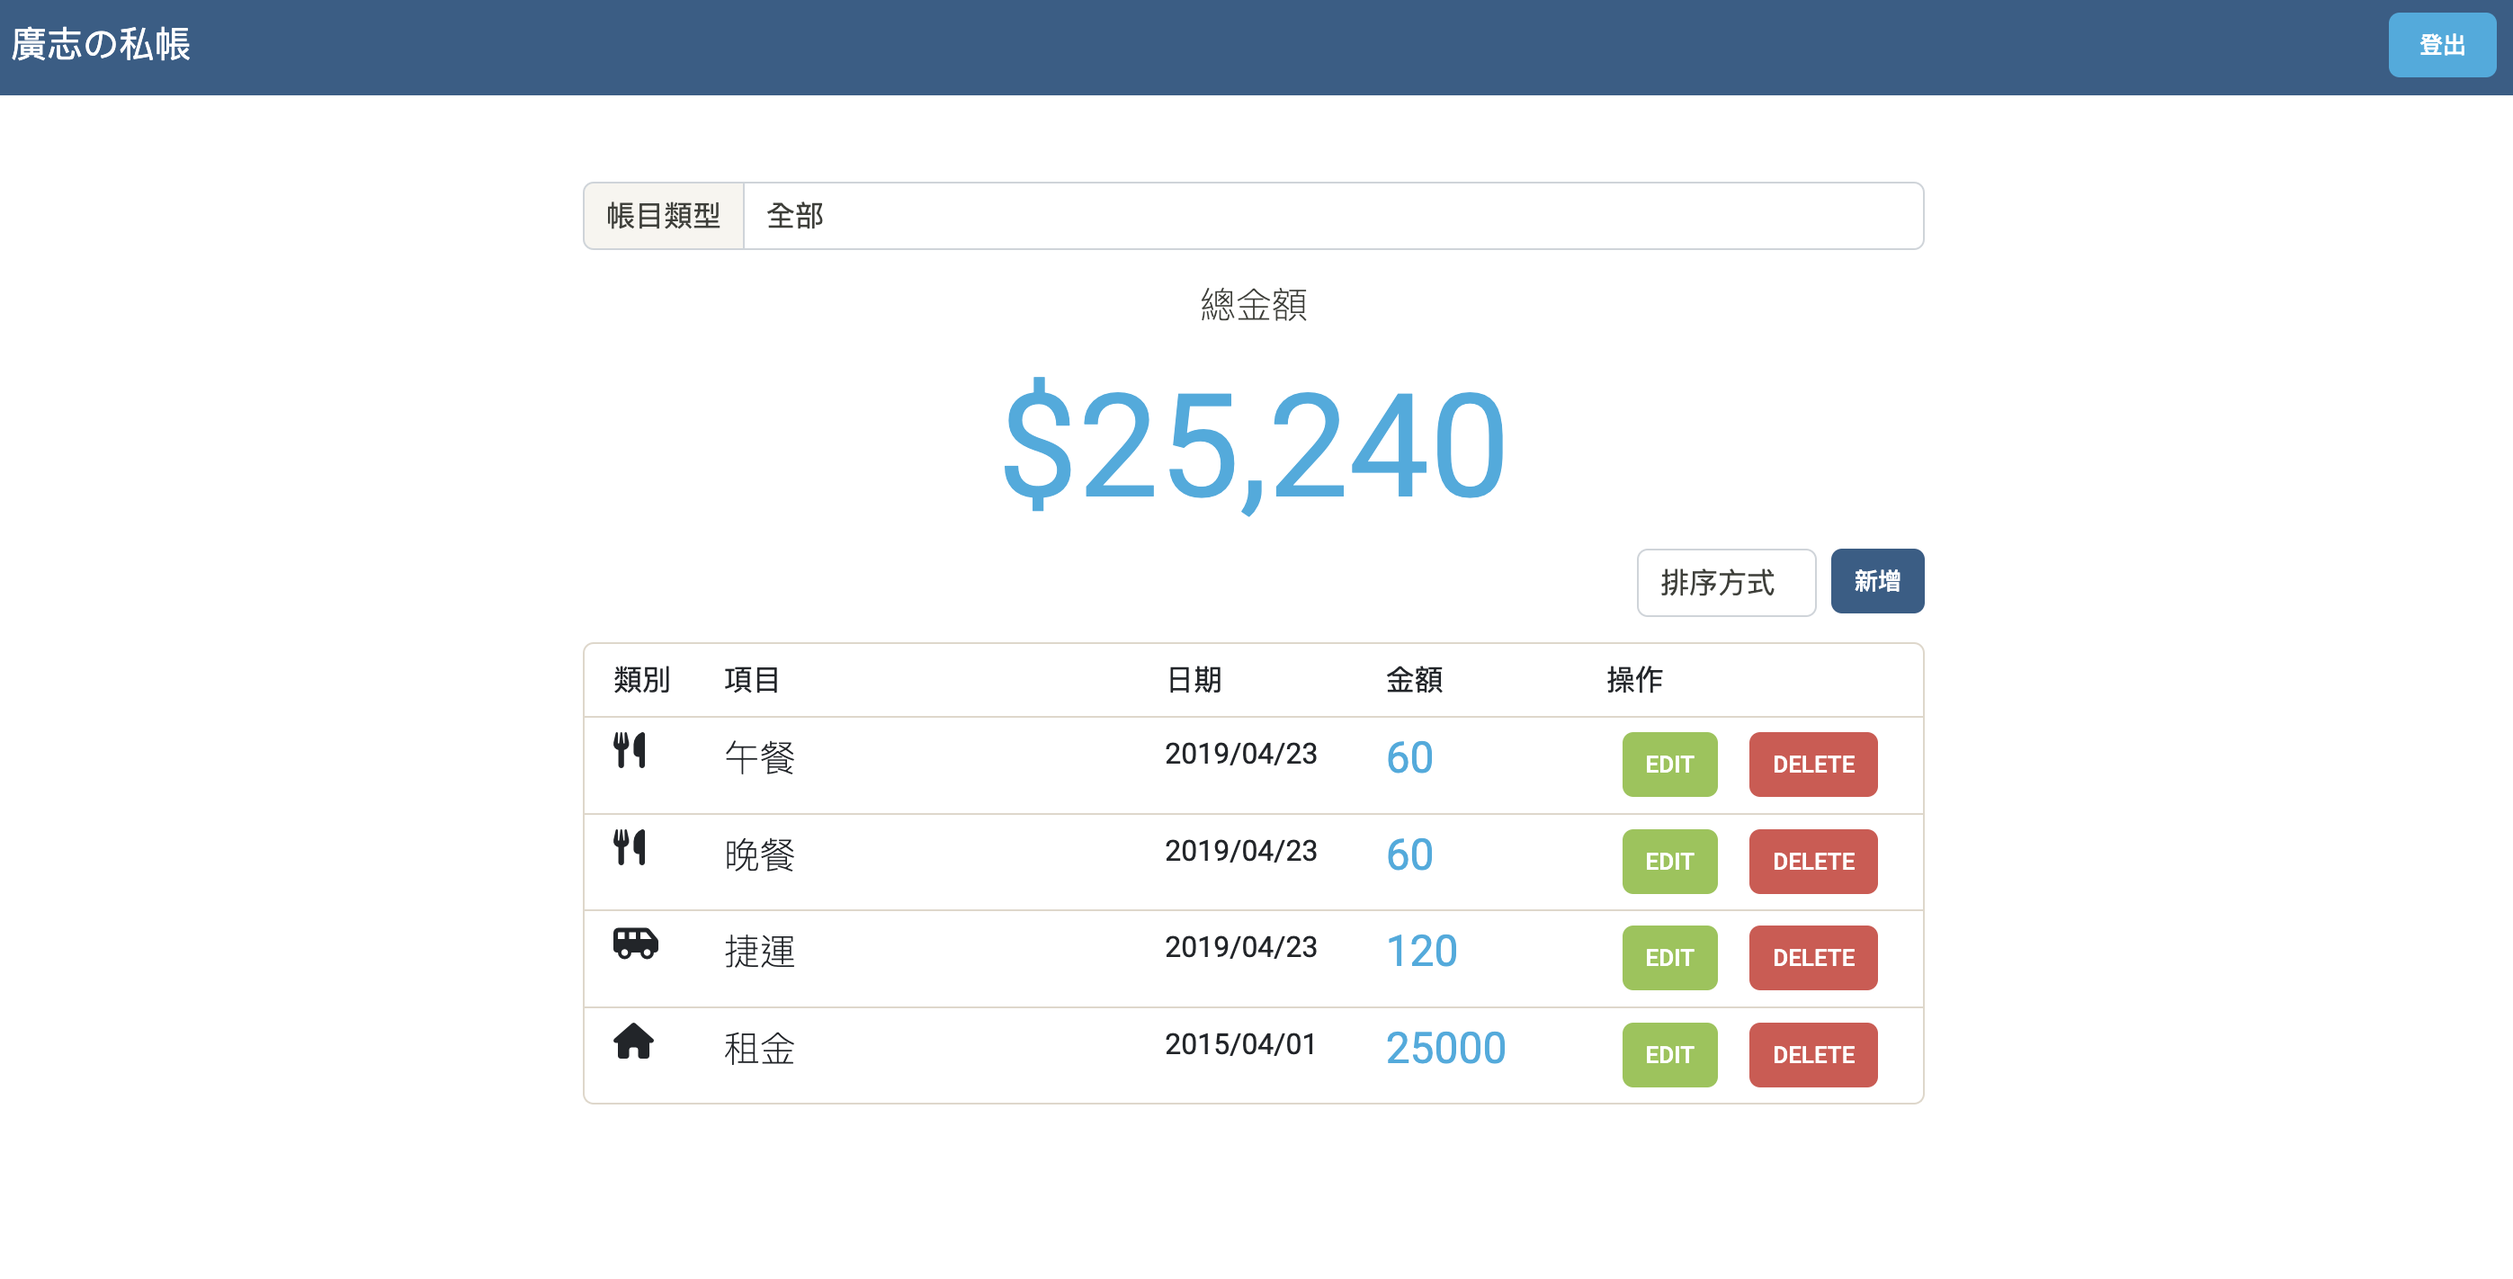
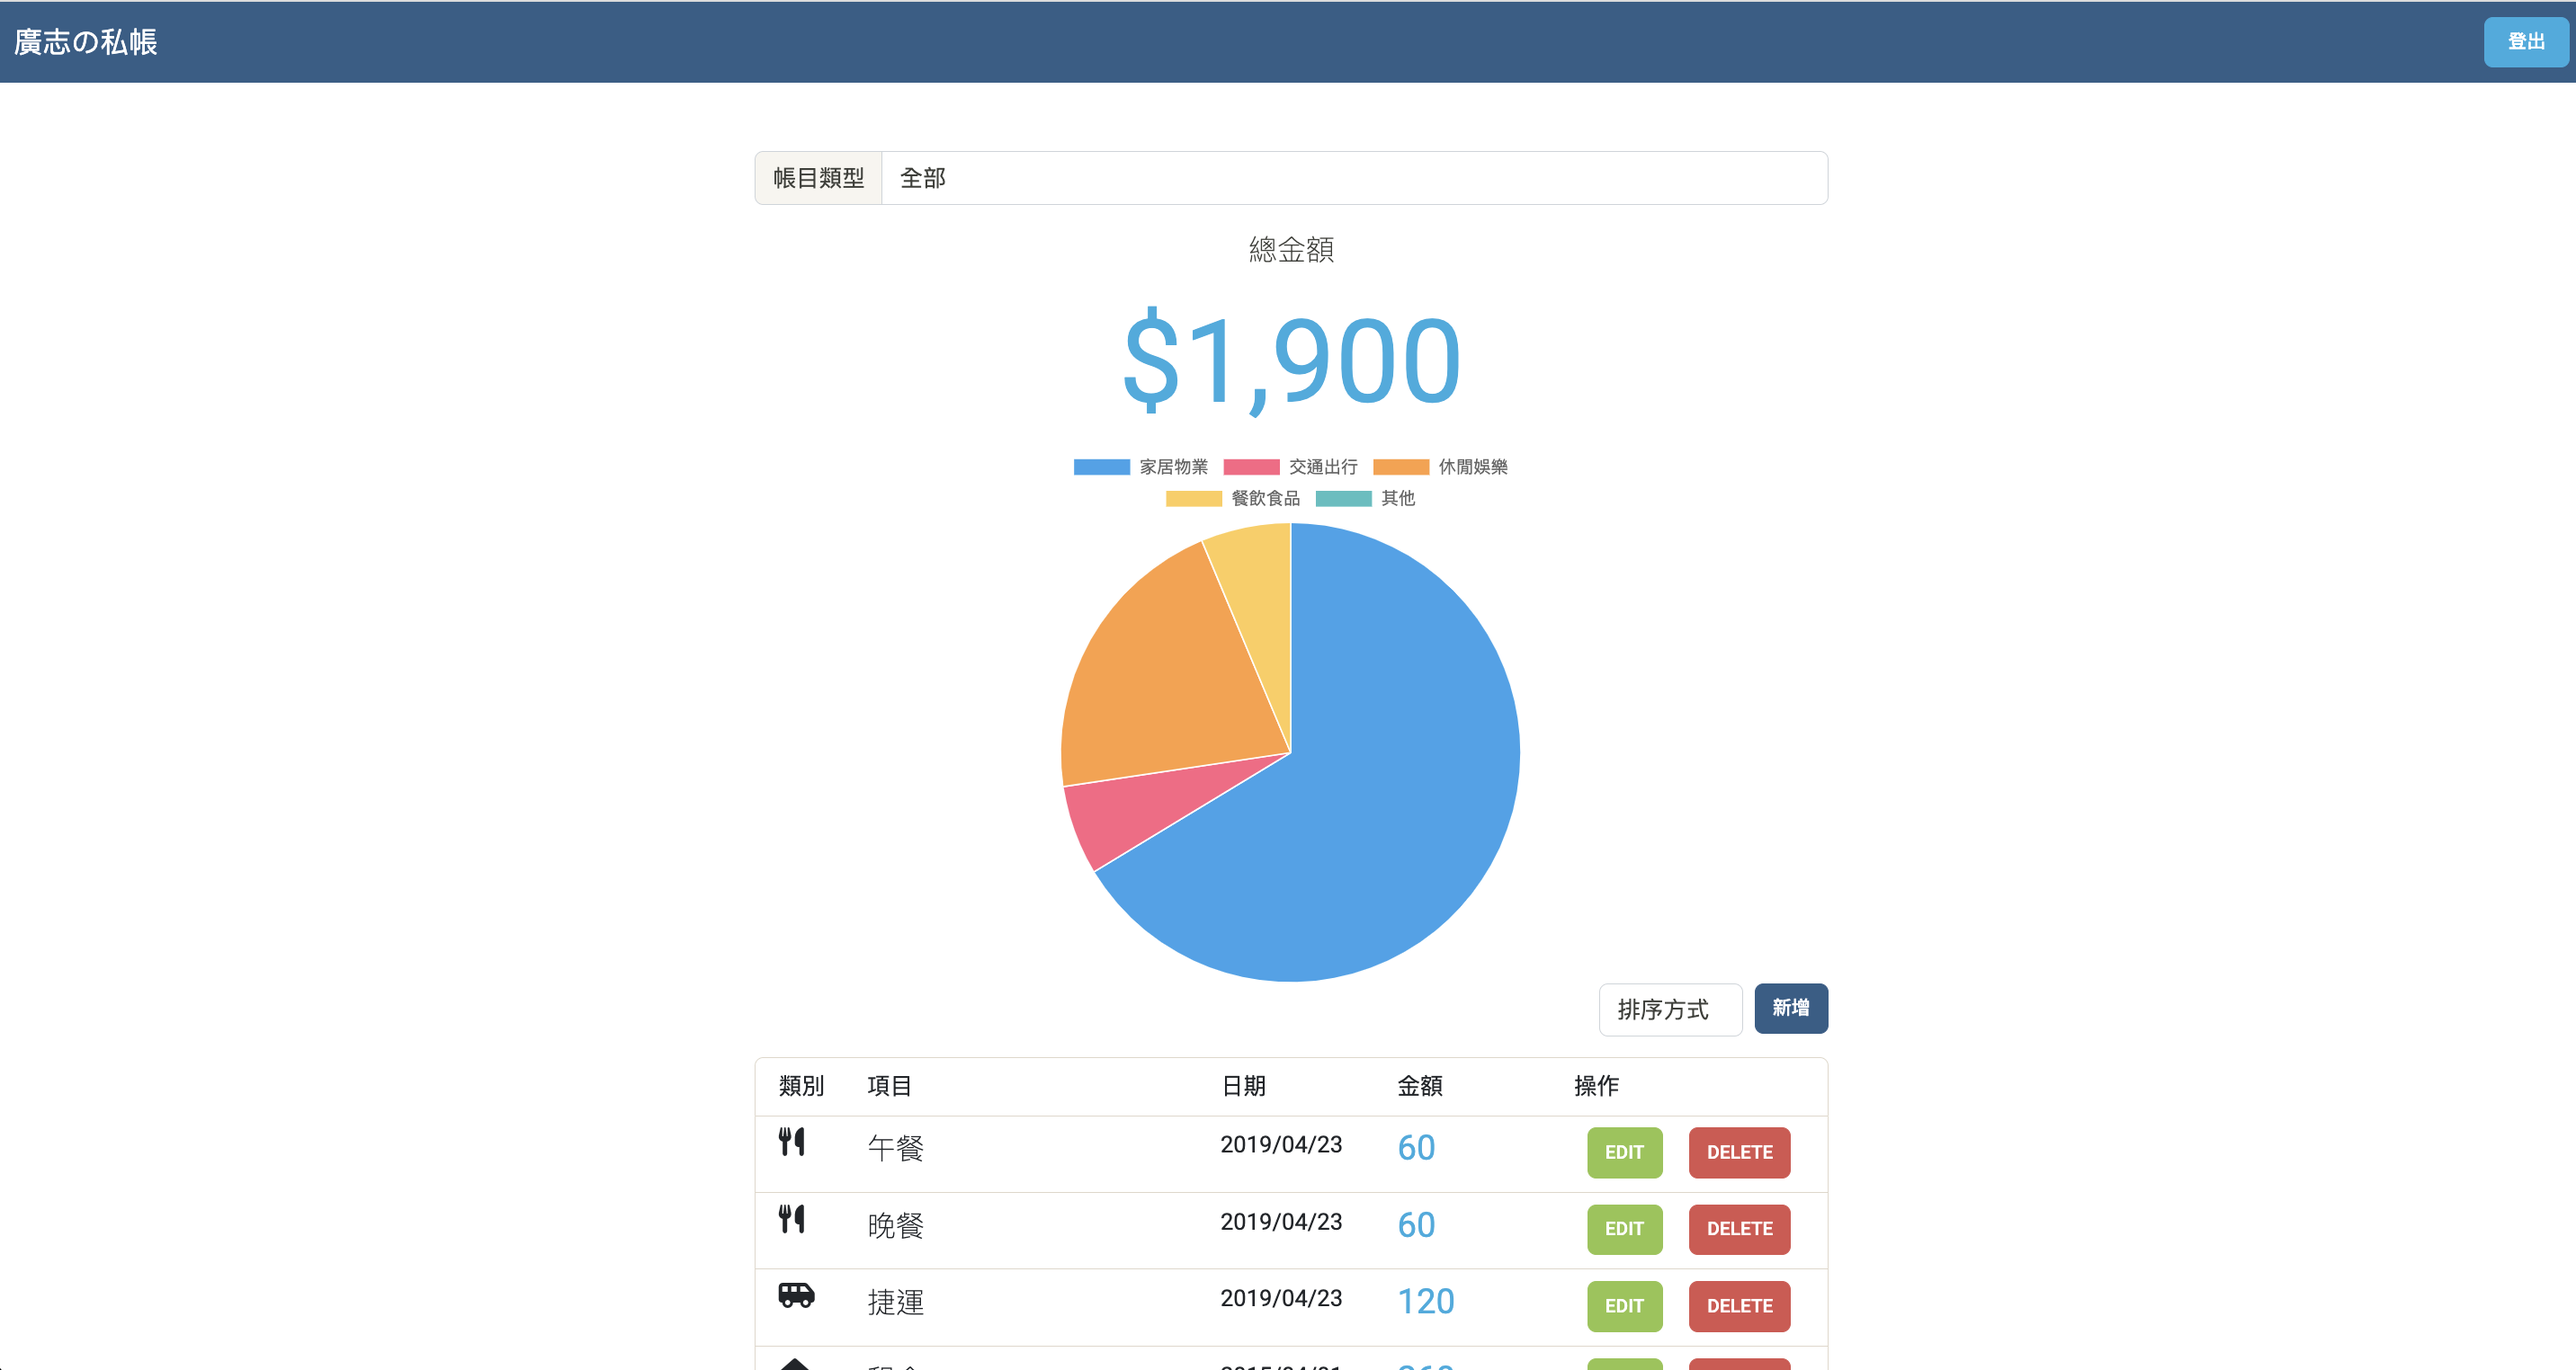
chore: update screenshot, and READMe

diff --git a/README.md b/README.md
@@ -31,7 +31,8 @@
 1. 使用者可以登入，登出，註冊
 2. 使用者可以CRUD自己的帳目
 3. 使用者可以依照帳目類型來瀏覽帳目
-4. 使用者可以sort賬目的排序骯是
+4. 使用者可以sort賬目的排序
+5. 使用者可以看到一個圓餅圖 
 
 ## Installation and execution - 安裝與執行步驟
 
